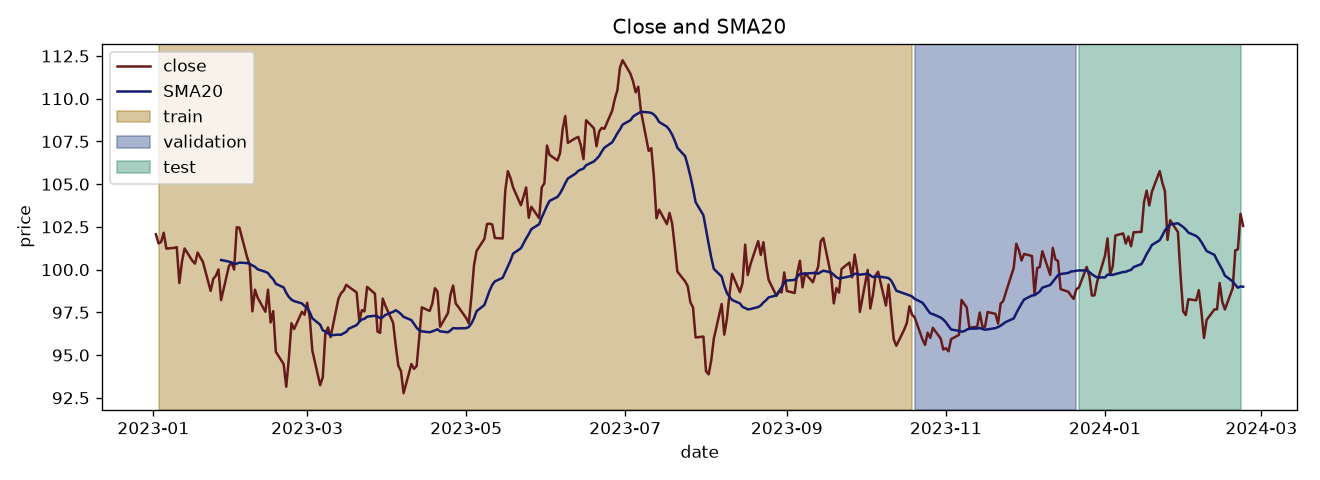
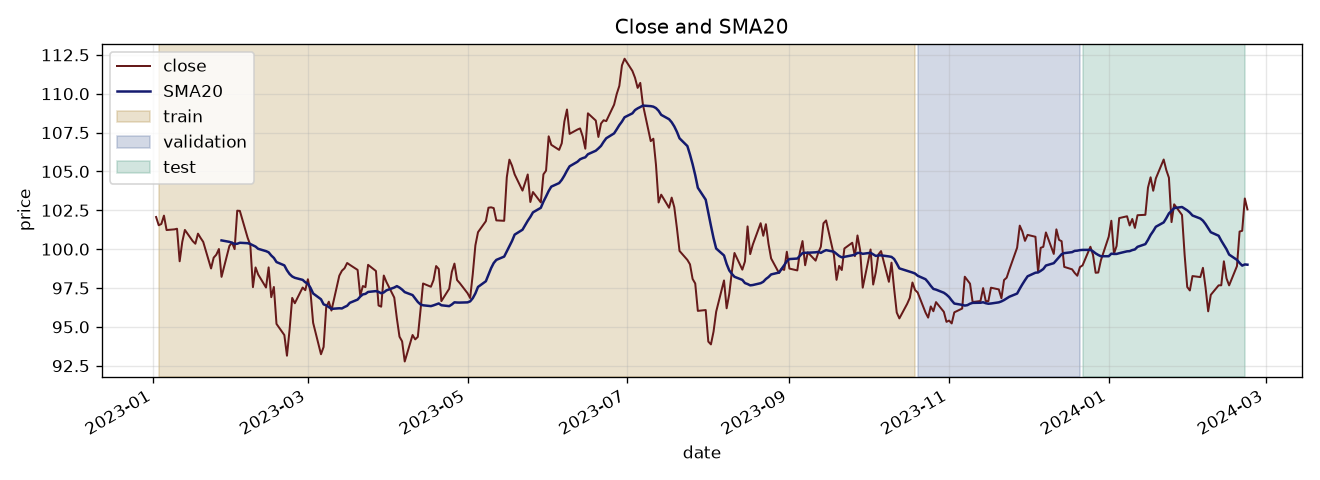
mpl_plots.py has been added

diff --git a/mpl_plots.py b/mpl_plots.py
@@ -1,0 +1,203 @@
+'''
+mpl_plots - plots for the data pipeline.
+
+rules:
+- always fig, ax (never plt.plot)
+- savefig BEFORE plt.show()
+- one file name per plot
+- same bins and same scale when two plots are compared
+
+every function:
+- draws, saves to PLOTS / name, shows (if show=True), closes the figure
+- returns one number or None (count of values outside bounds, etc.)
+'''
+
+import numpy as np
+import pandas as pd
+import matplotlib.pyplot as plt
+from pathlib import Path
+
+PLOTS = Path(__file__).parent.resolve() / "plots"
+
+C_TRAIN = "#996A05"
+C_VAL = "#1F3E80"
+C_TEST = "#1F805F"
+C_CLOSE = "#661A1A"
+C_SMA = "#141A6E"
+
+
+def _finish(fig, name: str, show: bool, plots_dir: Path) -> None:
+    '''
+    tight_layout -> savefig -> show -> close. order matters:
+    savefig before show, otherwise the file can be empty.
+    '''
+    plots_dir.mkdir(exist_ok=True)
+    fig.tight_layout()
+    fig.savefig(plots_dir / name, dpi=120)
+    if show:
+        plt.show()
+    plt.close(fig)
+
+
+def plot_price_splits(close: pd.Series,
+                      X_train: pd.DataFrame,
+                      X_validation: pd.DataFrame,
+                      X_test: pd.DataFrame,
+                      window: int = 20,
+                      name: str = "price_splits.png",
+                      show: bool = True,
+                      plots_dir: Path = PLOTS) -> None:
+    '''
+    close + SMA(window) with colored train / validation / test ranges.
+
+    params:
+    close: pd.Series with DatetimeIndex
+    X_train, X_validation, X_test: DataFrames, only their index (dates) is used
+
+    return:
+    None
+    '''
+    fig, ax = plt.subplots(figsize=(11, 4))
+    ax.plot(close, color=C_CLOSE, lw=1.2, label="close")
+    ax.plot(close.rolling(window).mean(), color=C_SMA, lw=1.5, label=f"SMA{window}")
+
+    ax.axvspan(X_train.index[0], X_train.index[-1], color=C_TRAIN, alpha=0.2, label="train")
+    ax.axvspan(X_validation.index[0], X_validation.index[-1], color=C_VAL, alpha=0.2, label="validation")
+    ax.axvspan(X_test.index[0], X_test.index[-1], color=C_TEST, alpha=0.2, label="test")
+
+    ax.set_title(f"Close and SMA{window}")
+    ax.set_xlabel("date")
+    ax.set_ylabel("price")
+    ax.grid(True, alpha=0.3)
+    ax.legend()
+    fig.autofmt_xdate()
+    _finish(fig, name, show, plots_dir)
+
+
+def plot_hist_bounds(values: pd.Series,
+                     low: float,
+                     high: float,
+                     bins: int = 30,
+                     name: str = "hist_bounds.png",
+                     show: bool = True,
+                     plots_dir: Path = PLOTS) -> int:
+    '''
+    histogram of values with vertical lines at low and high (clip bounds).
+
+    params:
+    values: pd.Series (train only)
+    low, high: numbers, for example clip_low["ret"], clip_high["ret"]
+
+    return:
+    int - how many values are strictly outside [low, high]
+    '''
+    fig, ax = plt.subplots(figsize=(8, 4))
+    ax.hist(values.dropna(), bins=bins, color="#4C72B0", edgecolor="white")
+    ax.axvline(low, color="red", linestyle="--", label="clip low")
+    ax.axvline(high, color="red", linestyle="--", label="clip high")
+
+    ax.set_title(f"Train: {values.name}")
+    ax.set_xlabel(str(values.name))
+    ax.set_ylabel("count")
+    ax.legend()
+    _finish(fig, name, show, plots_dir)
+
+    return int((~values.between(low, high)).sum())
+
+
+def plot_before_after(before: pd.Series,
+                      after: pd.Series,
+                      bins: int = 30,
+                      name: str = "before_after_clip.png",
+                      show: bool = True,
+                      plots_dir: Path = PLOTS) -> int:
+    '''
+    two histograms side by side: before and after clip.
+    bins are made once from `before` and used for both, sharey=True,
+    so the plots are comparable.
+
+    params:
+    before: pd.Series (for example X_train["vol_change"])
+    after: pd.Series (for example X_train_clipped["vol_change"])
+
+    return:
+    int - how many values clip changed
+    '''
+    edges = np.linspace(before.min(), before.max(), bins + 1)
+
+    fig, axes = plt.subplots(1, 2, figsize=(11, 4), sharey=True)
+    axes[0].hist(before, bins=edges, color="#4C72B0", edgecolor="white")
+    axes[0].set_title("before clip")
+    axes[1].hist(after, bins=edges, color="#55A868", edgecolor="white")
+    axes[1].set_title("after clip")
+    for ax in axes:
+        ax.set_xlabel(str(before.name))
+    axes[0].set_ylabel("count")
+    _finish(fig, name, show, plots_dir)
+
+    return int((before != after).sum())
+
+
+def plot_normalized(train: pd.Series,
+                    validation: pd.Series,
+                    test: pd.Series,
+                    name: str = "normalized.png",
+                    show: bool = True,
+                    plots_dir: Path = PLOTS) -> dict:
+    '''
+    one normalized column for train / validation / test on one axis.
+    dashed lines at 0 and 1 = train range (min and max come from train only).
+
+    params:
+    train, validation, test: pd.Series with dates in index
+
+    return:
+    dict - {"validation": n_outside, "test": n_outside}, outside [0, 1]
+    '''
+    fig, ax = plt.subplots(figsize=(11, 4))
+    ax.plot(train, color=C_TRAIN, label="train")
+    ax.plot(validation, color=C_VAL, label="validation")
+    ax.plot(test, color=C_TEST, label="test")
+    ax.axhline(0, color="black", linestyle="--")
+    ax.axhline(1, color="black", linestyle="--")
+
+    ax.set_title(f"Normalized {train.name}")
+    ax.set_xlabel("date")
+    ax.set_ylabel("value")
+    ax.legend()
+    fig.autofmt_xdate()
+    _finish(fig, name, show, plots_dir)
+
+    return {
+        "validation": int((~validation.between(0, 1)).sum()),
+        "test": int((~test.between(0, 1)).sum()),
+    }
+
+
+def plot_price_volume(df: pd.DataFrame,
+                      name: str = "price_volume.png",
+                      show: bool = True,
+                      plots_dir: Path = PLOTS) -> None:
+    '''
+    price on top, volume below, common x axis, heights 3 : 1.
+
+    params:
+    df: DataFrame with DatetimeIndex and columns "close", "volume"
+
+    return:
+    None
+    '''
+    fig, (ax1, ax2) = plt.subplots(
+        2, 1, figsize=(11, 6), sharex=True,
+        gridspec_kw={"height_ratios": [3, 1]},
+    )
+    ax1.plot(df["close"], color=C_CLOSE, label="close")
+    ax1.set_ylabel("price")
+    ax1.grid(True, alpha=0.3)
+    ax1.legend()
+
+    ax2.bar(df.index, df["volume"], width=1.0, color="gray")
+    ax2.set_ylabel("volume")
+
+    fig.autofmt_xdate()
+    _finish(fig, name, show, plots_dir)

diff --git a/main.py b/main.py
@@ -1,7 +1,7 @@
 import numpy as np
 import pandas as pd
 from pathlib import Path
-import matplotlib.pyplot as plt
+import mpl_plots as mp
 DATA = Path(__file__).parent.resolve() / "data"
 PLOTS = Path(__file__).parent.resolve() / "plots"
 DATA.mkdir(exist_ok=True)
@@ -115,18 +115,4 @@ for name, arr in [("train", X_train_normalized),
     print(name, arr.min(axis=0).to_list(), arr.max(axis=0).to_list())
     assert not arr.isna().any().any()
 
-fig, ax = plt.subplots(figsize=(11, 4))
-ax.plot(df2["close"], color="#661A1A", label="close")
-ax.plot(df2["close"].rolling(20).mean(), color="#141A6E", label="SMA20")
-
-ax.axvspan(X_train.index[0], X_train.index[-1], color="#996A0561", label="train")
-ax.axvspan(X_validation.index[0], X_validation.index[-1], color="#1F3E8061", label="validation")
-ax.axvspan(X_test.index[0], X_test.index[-1], color="#1F805F61", label="test")
-
-ax.set_title("Close and SMA20")
-ax.set_xlabel("date")
-ax.set_ylabel("price")
-ax.legend()
-fig.tight_layout()
-fig.savefig(PLOTS / "price_splits.png", dpi=120)
-plt.show()
+mp.plot_price_splits(df2["close"], X_train, X_validation, X_test)

diff --git a/README.md b/README.md
@@ -134,7 +134,20 @@ for name, arr in [("train", X_train_normalized),
     assert not arr.isna().any().any()</code></pre>
 </blockquote>
 
-# graphics with matplotlib:
+# mpl_plots.py:
+Its the art of vibecoding
+
+here are defs:
+
+plot_price_splits
+plot_hist_bounds
+plot_before_after
+plot_normalized
+plot_price_volume
+
+other info in docstring
+
+# graphics with matplotlib(unnecessary, i hate this, better use mpl_plots.py):
 
 Rules:
 - always use `fig, ax`, not `plt.plot`
@@ -155,8 +168,6 @@ PLOTS.mkdir(exist_ok=True)</code></pre>
 
 <blockquote>
 <pre><code>fig, ax = plt.subplots(figsize=(10, 4))
-
-... plot commands here: ax.plot(...), ax.hist(...) ...
 
 ax.set_title("title")
 ax.set_xlabel("x")
@@ -218,3 +229,19 @@ axes[0].set_title("before clip")
 axes[1].hist(X_train_clipped[col], bins=bins, color="#55A868", edgecolor="white")
 axes[1].set_title("after clip")
 for ax in axes:
+    ax.set_xlabel(col)
+axes[0].set_ylabel("count")
+fig.tight_layout()
+fig.savefig(PLOTS / "before_after_clip.png", dpi=120)</code></pre>
+</blockquote>
+
+8. counting values outside of bounds (no loops, no "&lt;" in code):
+
+<blockquote>
+<pre><code># outside clip bounds (train)
+outside = (~X_train["ret"].between(clip_low["ret"], clip_high["ret"])).sum()
+
+for name, arr in [("val", X_validation_normalized), ("test", X_test_normalized)]:
+    print(name, (~arr["ret"].between(0, 1)).sum())
+
+print((X_train != X_train_clipped).sum())</code></pre>

diff --git a/research journal/13-11-26.md b/research journal/13-11-26.md
@@ -1,0 +1,4 @@
+для начала, я сделал полное OHLCV.
+что насчет matplotlib - он мне прям не зашел, я навайбкодил mpl_plots.py, больше не хочу с этой библиотекой связываться.
+из этого модуля моя только функция plot_price_splits. зато мне понравилось какую крутую документацию клод сделал, ну по правде говоря 
+это я его научил но неважно.
